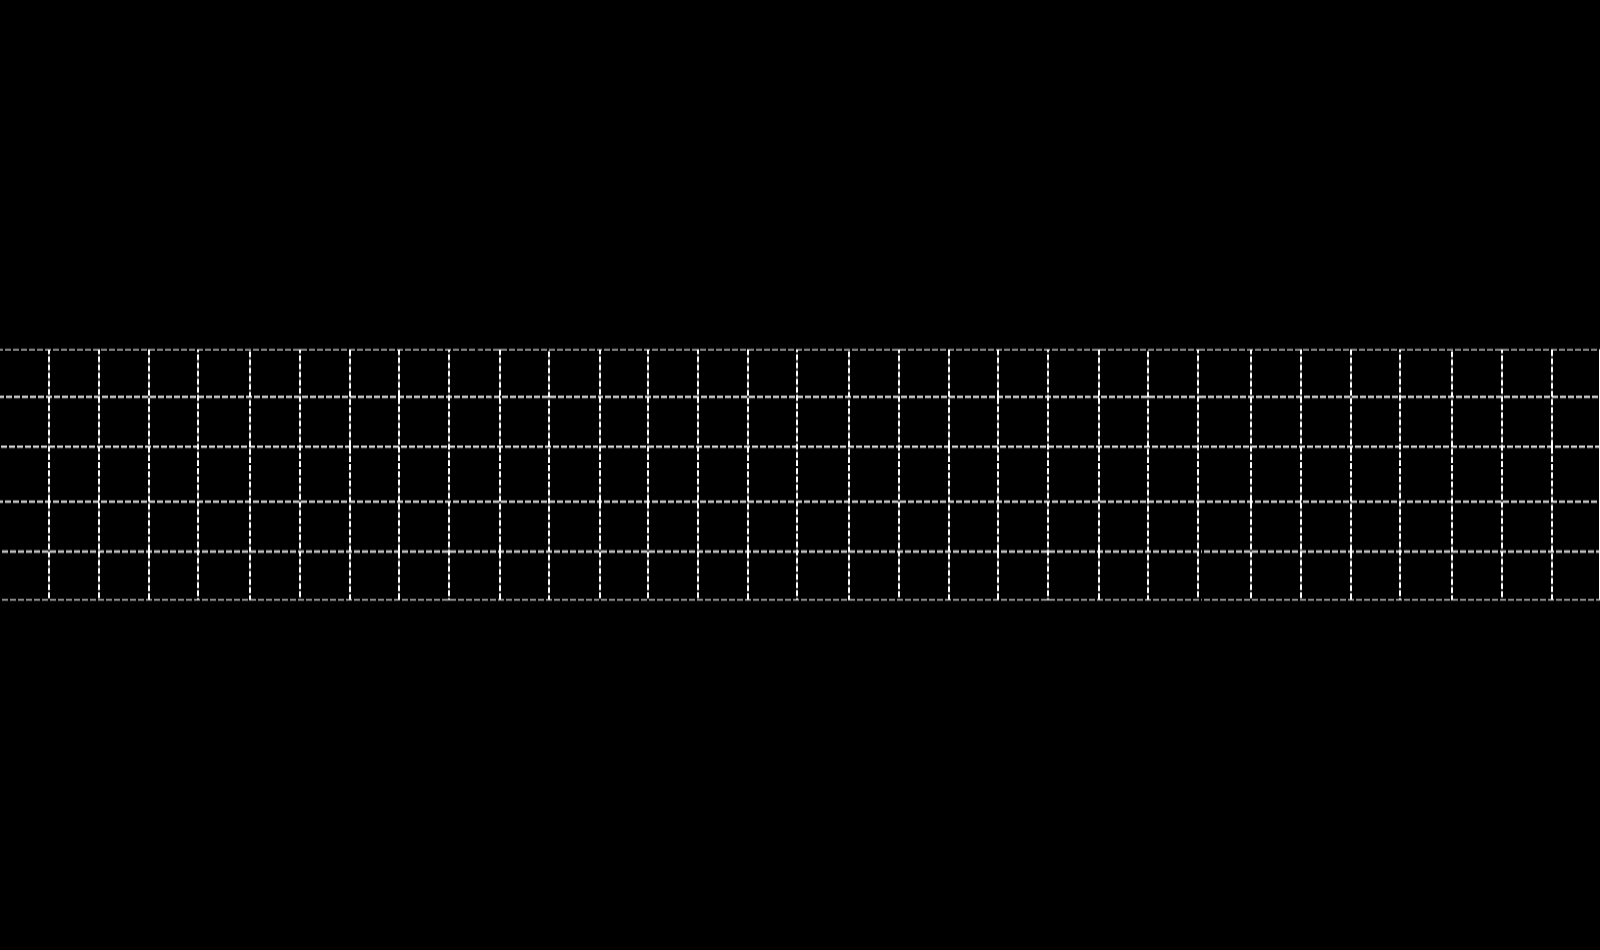
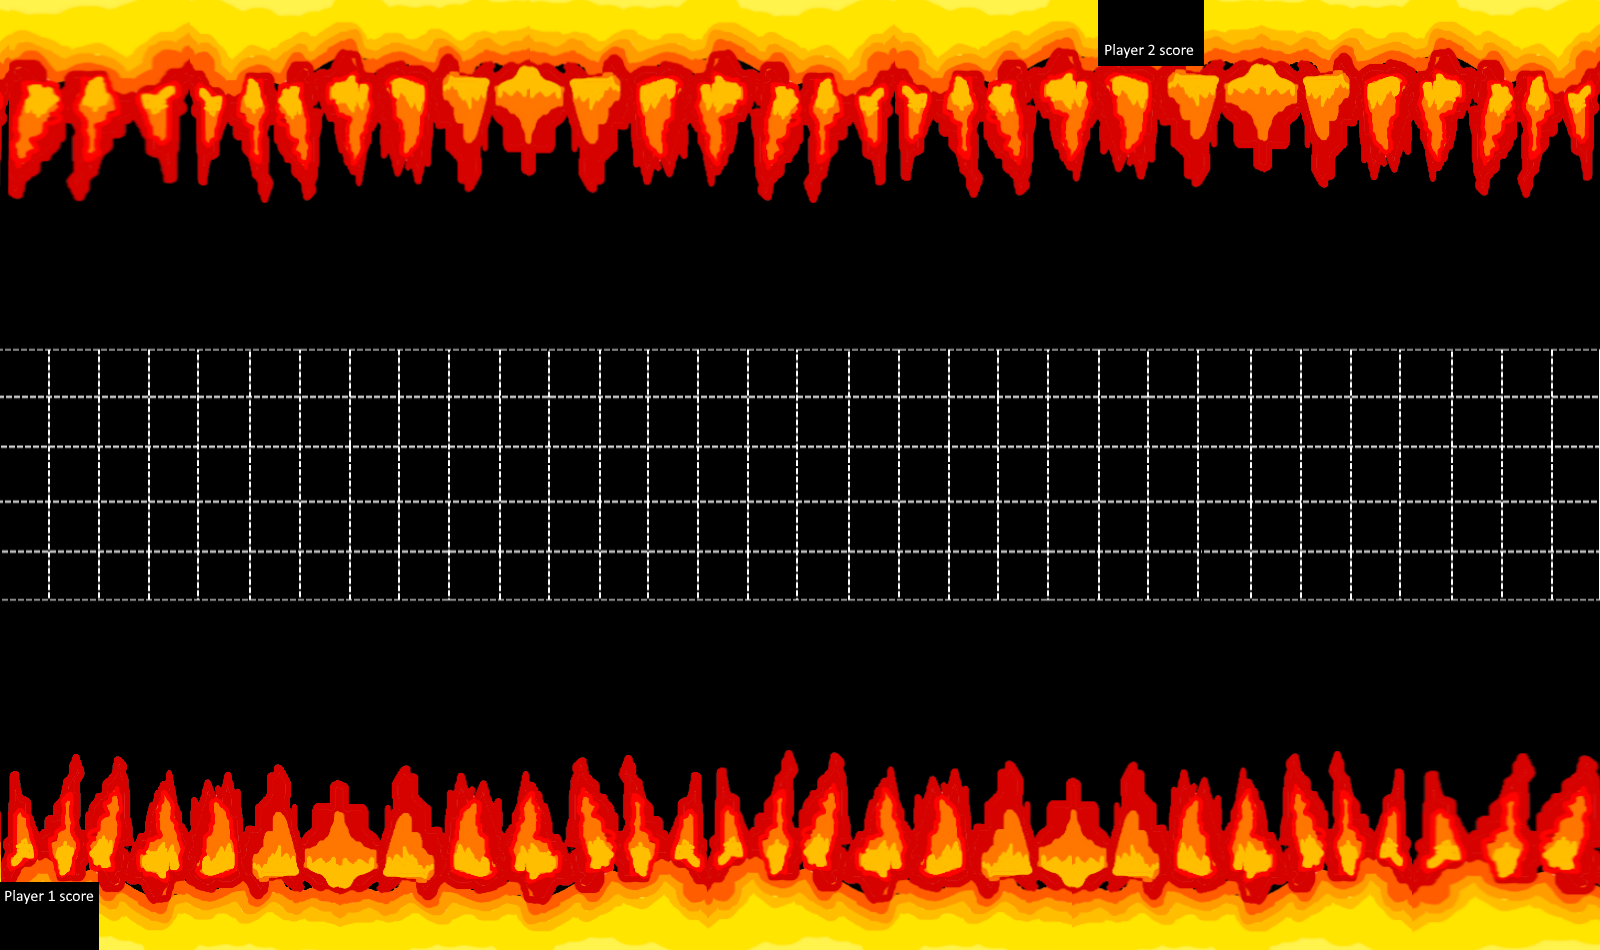
New backround, new racket

diff --git a/gameBase.py b/gameBase.py
@@ -6,15 +6,12 @@ from LevelLoad import *
 from Block import *
 pygame.init()
 
-balls = []
+balls = [] 
 
 clock = pygame.time.Clock()
 
-<<<<<<< HEAD
-width = 1800
-=======
 width = 1200
->>>>>>> origin/master
+
 height = 950
 size = width, height
 
@@ -129,3 +126,4 @@ while True:
         screen.blit(block.image, block.rect)
     pygame.display.flip()
     clock.tick(60)
+    print clock.get_fps()
